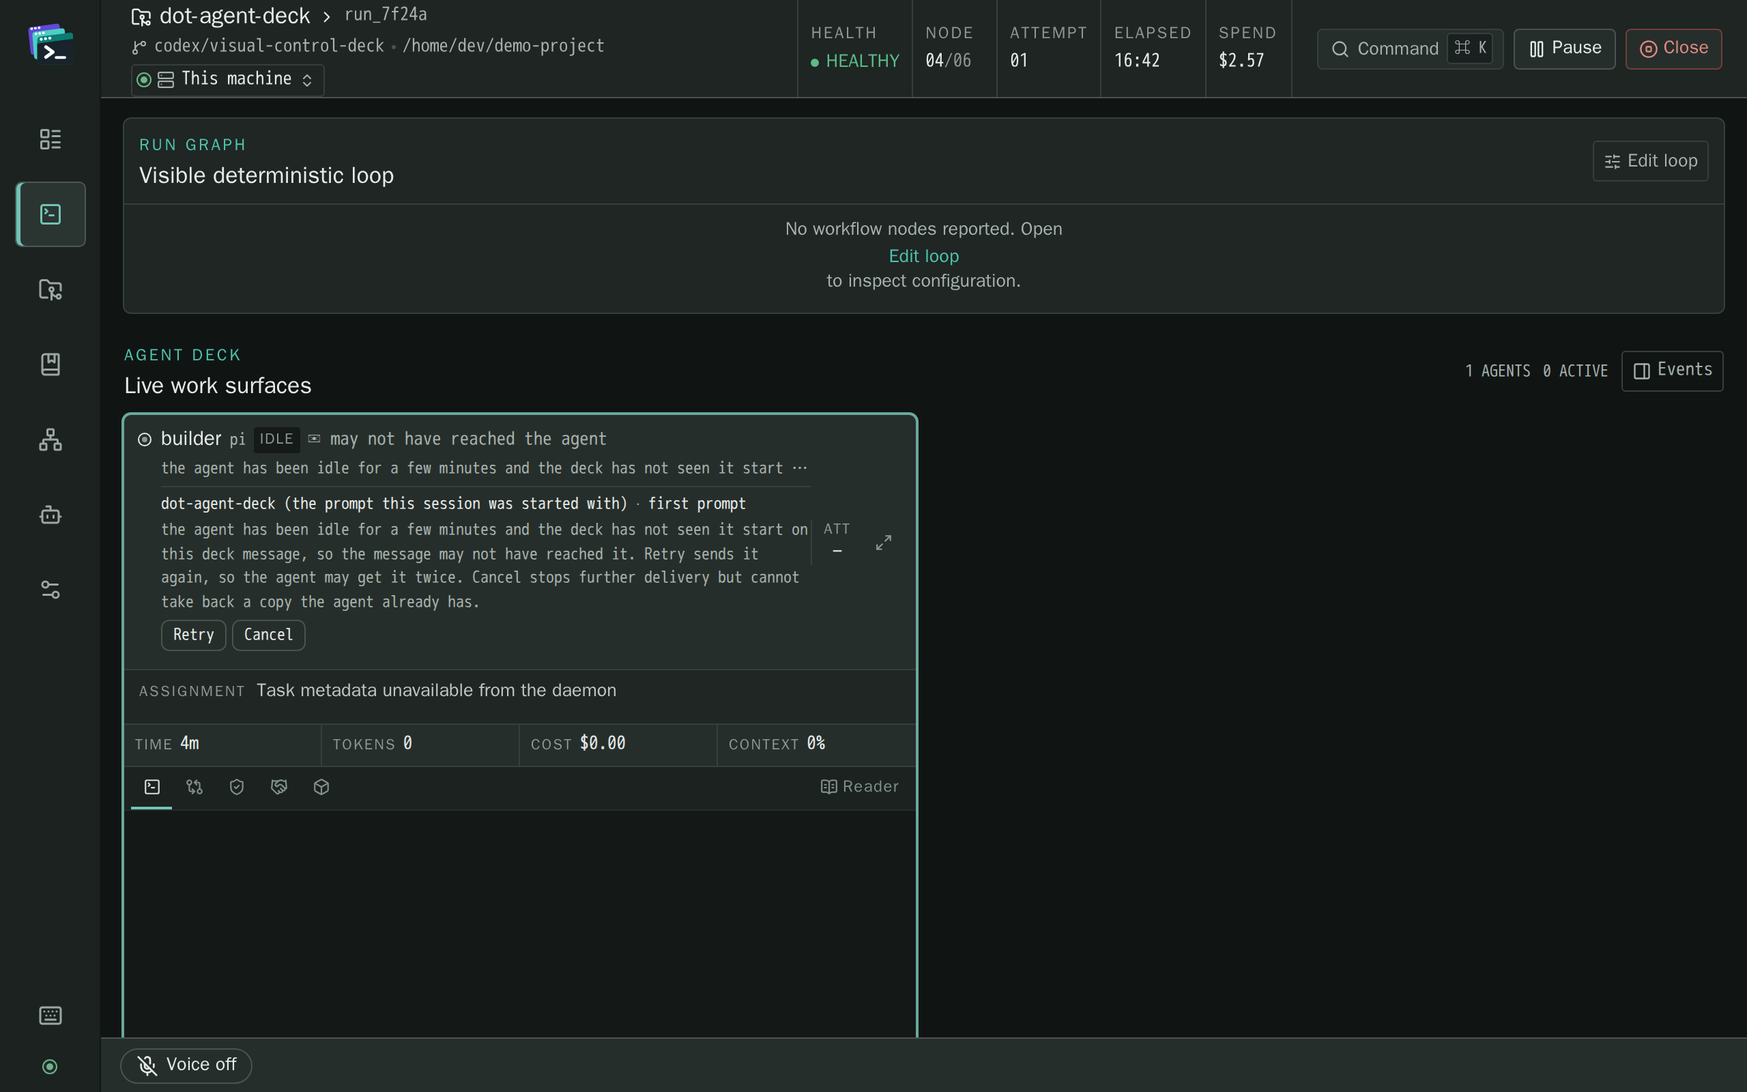
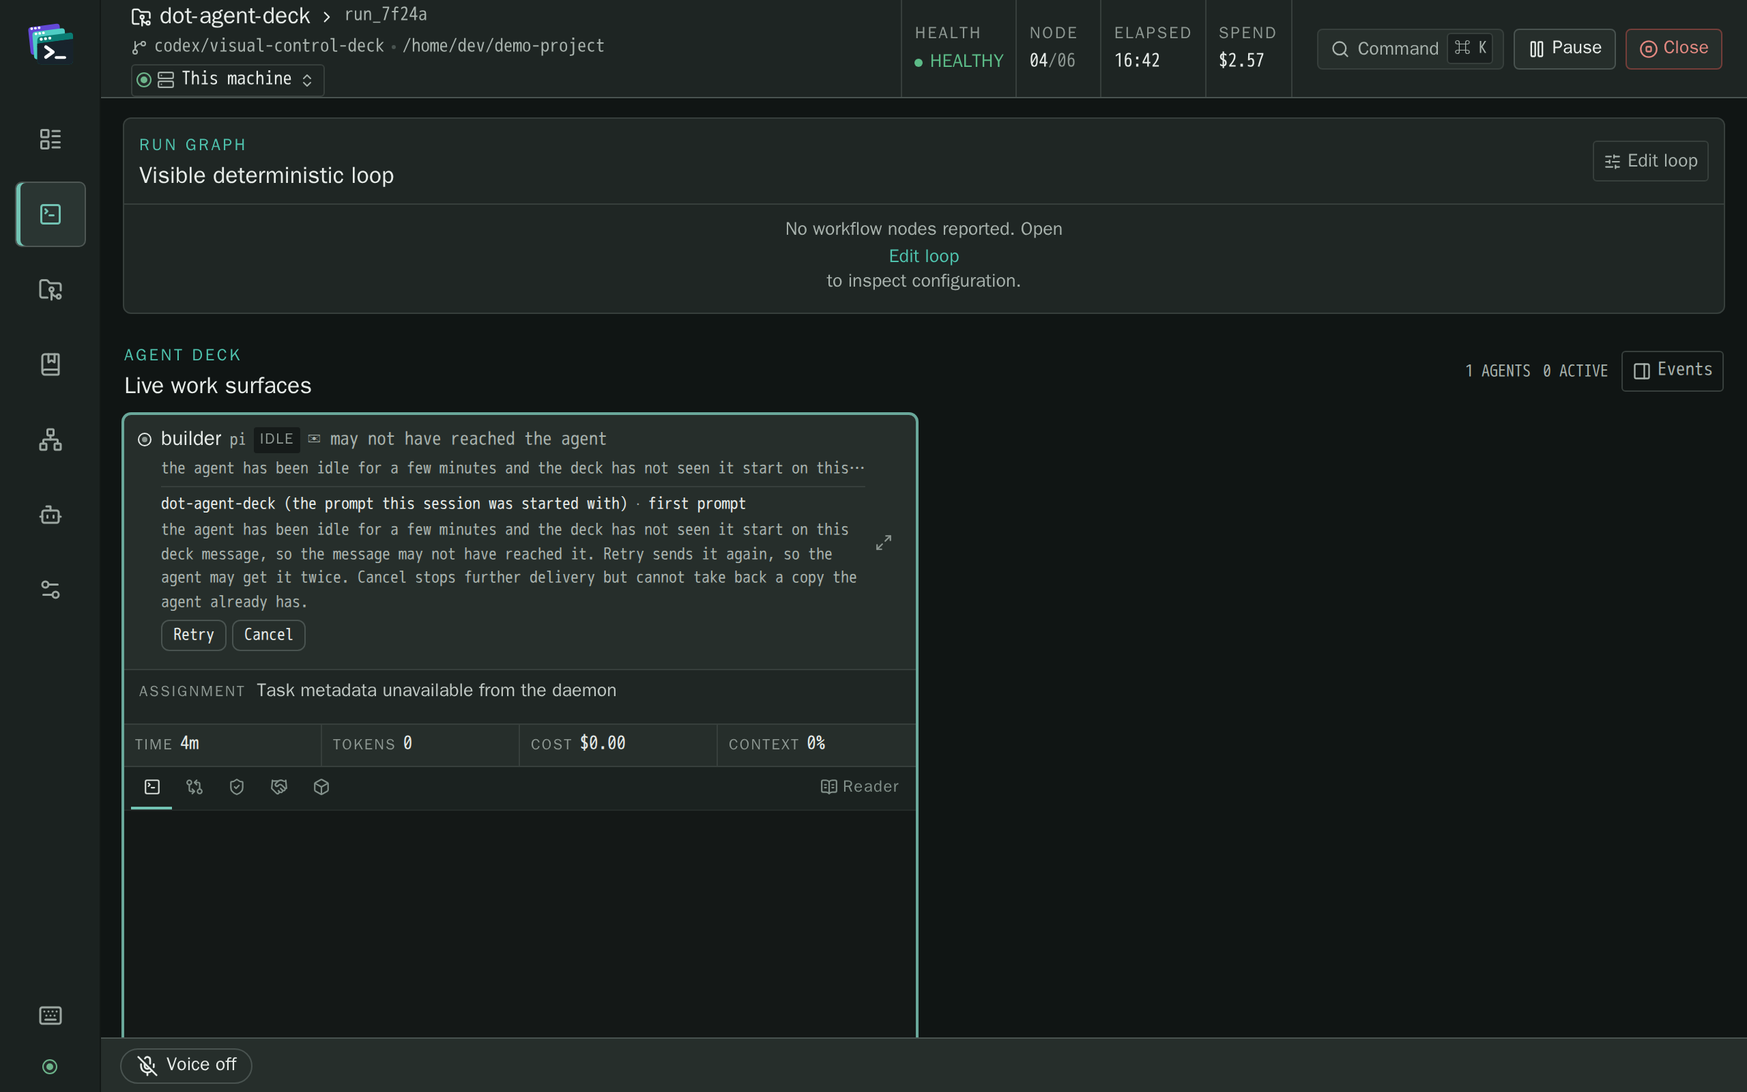
fix(desktop): remove the ATT, MODEL, USAGE and ATTEMPT readings (#2312)
All four appear only with experimental features on, and no daemon reports
any of them: against a live daemon they only ever printed an em dash. The
agent screen loses ATT, MODEL and USAGE; the Daemons screen's top bar loses
ATTEMPT. AgentSession.attempt and DeckSnapshot.currentAttempt go with them.
The fixture run graph keeps its own per-node attempt counts.

Changed region(s): [[0.0938, 0.4688, 0.5, 0.5625], [0.4688, 0.0, 0.625, 0.0625]]

diff --git a/desktop/src/AgentPaneOverlay.test.tsx b/desktop/src/AgentPaneOverlay.test.tsx
@@ -238,7 +238,6 @@ describe("agent pane overlay", () => {
     expect(within(overlay).getByRole("heading", { name: "Plan / architecture" })).toBeVisible();
     // Nothing is removed from the header, and identity matters MORE here: in
     // the grid, position tells a reader which tile they are looking at.
-    expect(within(overlay).getByText("ATT")).toBeVisible();
     expect(within(overlay).getByText("passed")).toBeVisible();
   });
 
@@ -507,7 +506,7 @@ describe("agent pane overlay", () => {
  * Issue #1400. With the `experimental` flag off — the shipped default — the
  * agent screen offers only what a live daemon supplies: the Terminal tab, and
  * TIME and TOOLS among the readings. The Diff, Checks, Delegations and
- * Artifacts tabs and the ATT, MODEL and USAGE fields come back with the flag.
+ * Artifacts tabs come back with the flag; the readings stay TIME and TOOLS.
  */
 describe("agent details behind the experimental flag", () => {
   const DETAILS_OFF = { ...fixtureDesktopFeatures("?experimental=1"), showAgentDetails: false };
@@ -529,9 +528,8 @@ describe("agent details behind the experimental flag", () => {
 
   /**
    * Scenario: with the flag off, open a live agent's pane from the dashboard.
-   * The tab strip holds Terminal alone, the header has no ATT, the readings
-   * are TIME and TOOLS with no MODEL or USAGE, and TIME counts the agent's
-   * uptime from the spawn instant the daemon reported.
+   * The tab strip holds Terminal alone, the readings are TIME and TOOLS, and
+   * TIME counts the agent's uptime from the spawn instant the daemon reported.
    */
   it("shows only the terminal tab and the readings the daemon supplies while the flag is off", () => {
     const view = { kind: "agent" as const, deckId: "deck-000000000000dec1", agentId: "7", from: "overview" as const };
@@ -539,7 +537,6 @@ describe("agent details behind the experimental flag", () => {
     const pane = screen.getByTestId("agent-pane-overlay");
 
     expect(within(pane).getAllByRole("tab").map((tab) => tab.getAttribute("aria-label"))).toEqual(["Terminal"]);
-    expect(within(pane).queryByText("ATT")).not.toBeInTheDocument();
     const metrics = within(pane).getByLabelText(/run metrics$/);
     expect(Array.from(metrics.children, (cell) => cell.querySelector("span")?.textContent)).toEqual(["TIME", "TOOLS"]);
     const time = within(metrics).getByText("TIME").parentElement!;
@@ -548,18 +545,19 @@ describe("agent details behind the experimental flag", () => {
   });
 
   /**
-   * Scenario: the same live agent with the flag on. All five tabs and the
-   * ATT, MODEL and USAGE fields are back, and TIME still reads the uptime.
+   * Scenario: the same live agent with the flag on. All five tabs are back,
+   * the readings are still only TIME and TOOLS (no ATT, MODEL or USAGE, which
+   * a daemon reports nothing for), and TIME still reads the uptime.
    */
-  it("brings back the four tabs and the ATT, MODEL and USAGE fields with the flag on", () => {
+  it("brings back the four tabs with the flag on, and no reading the daemon cannot fill", () => {
     const view = { kind: "agent" as const, deckId: "deck-000000000000dec1", agentId: "7", from: "overview" as const };
     render(<DeckShell runtime={{ ...liveRuntime(Date.now() - 2 * 3_600_000), desktopFeatures: fixtureDesktopFeatures("?experimental=1") }} initialView={view} />);
     const pane = screen.getByTestId("agent-pane-overlay");
 
     expect(within(pane).getAllByRole("tab").map((tab) => tab.getAttribute("aria-label"))).toEqual(["Terminal", "Diff", "Checks", "Delegations", "Artifacts"]);
-    expect(within(pane).getByText("ATT")).toBeVisible();
+    expect(within(pane).queryByText("ATT")).not.toBeInTheDocument();
     const metrics = within(pane).getByLabelText(/run metrics$/);
-    expect(Array.from(metrics.children, (cell) => cell.querySelector("span")?.textContent)).toEqual(["TIME", "TOOLS", "MODEL", "USAGE"]);
+    expect(Array.from(metrics.children, (cell) => cell.querySelector("span")?.textContent)).toEqual(["TIME", "TOOLS"]);
     expect(within(metrics).getByText("TIME").parentElement).toHaveTextContent("2h");
   });
 

diff --git a/desktop/src/App.test.tsx b/desktop/src/App.test.tsx
@@ -2653,10 +2653,10 @@ describe("ControlDeck", () => {
 
   /**
    * Scenario: render the daemon against a snapshot mapped from a real daemon DTO
-   * — the live path, not the fixture. Every place the daemon used to assert an
-   * attempt count now shows the em dash it shows for anything else the daemon
-   * does not report, and the branch chip is gone rather than printing the
-   * literal "Unavailable" where a branch name belongs (PRD #745 M8).
+   * — the live path, not the fixture. No attempt count is shown anywhere: the
+   * topbar has no ATTEMPT reading, the tile no ATT, and the run-graph node no
+   * "att". The branch chip is gone rather than printing the literal
+   * "Unavailable" where a branch name belongs (PRD #745 M8).
    */
   it("asserts no attempt count and no branch in live mode", async () => {
     const { mapDesktopSnapshot } = await import("./lib/bridge");
@@ -2670,10 +2670,9 @@ describe("ControlDeck", () => {
 
     // The topbar instrument, the run-graph node and the tile — the three places
     // the fabricated `1` used to surface.
-    expect(screen.getByText("ATTEMPT").parentElement).toHaveTextContent("—");
+    expect(screen.queryByText("ATTEMPT")).not.toBeInTheDocument();
     expect(screen.getByTestId("workflow-node-agent-7")).not.toHaveTextContent("att");
-    expect(container.querySelector(".agent-attempt strong")?.textContent).toBe("—");
-    expect(container.querySelector(".agent-attempt")).toHaveAttribute("title", "No attempt count is reported by the daemon");
+    expect(screen.queryByText("ATT")).not.toBeInTheDocument();
 
     // No branch chip at all, and nothing standing in for one.
     expect(container.querySelector(".branch-line svg")).toBeNull();
@@ -3039,14 +3038,12 @@ describe("ControlDeck", () => {
     expect(await screen.findByText(same)).toBeInTheDocument();
   });
   /**
-   * The fixture keeps its own attempt counts: they are legitimate fixture data,
-   * and M8's claim is about what LIVE mode presents as fact.
+   * The fixture's run graph keeps its own attempt counts: they are legitimate
+   * fixture data, and M8's claim is about what LIVE mode presents as fact.
    */
-  it("still shows the fixture's own attempt counts", () => {
+  it("still shows the fixture's own attempt counts on the run graph", () => {
     const { container } = render(<ControlDeck runtime={runtime()} />);
 
-    expect(screen.getByText("ATTEMPT").parentElement).toHaveTextContent("01");
-    expect(container.querySelector(".agent-attempt strong")?.textContent).toBe("01");
     expect(screen.getByTestId("workflow-node-build")).toHaveTextContent("att 2");
     expect(container.querySelector(".branch-line")).toHaveTextContent("codex/visual-control-deck");
   });

diff --git a/desktop/src/components/AgentTile.tsx b/desktop/src/components/AgentTile.tsx
@@ -182,8 +182,8 @@ export interface AgentTileProps {
   presentation: AgentPanePresentation;
   /**
    * Issue #1400 — `DesktopFeatures.showAgentDetails`: whether to offer the
-   * Diff, Checks, Delegations and Artifacts tabs and the ATT, MODEL and USAGE
-   * fields, which a live daemon supplies nothing for. Required, so each render
+   * Diff, Checks, Delegations and Artifacts tabs, which a live daemon supplies
+   * nothing for. Required, so each render
    * site says which rather than inheriting a default. PRD #1399 decides what
    * becomes of each.
    */
@@ -614,18 +614,7 @@ export function AgentTile({
             )}
           </div>
         </div>
-        {/*
-          PRD #745 M8: an em dash — this deck's established "not known" — when
-          no attempt was reported. Live mode used to hardcode `1`, so every tile
-          printed `ATT 01` as if the daemon tracked retries; it tracks none.
-        */}
         <div className="agent-header-actions">
-          {showDetails && (
-            <div className="agent-attempt" title={agent.attempt === undefined ? "No attempt count is reported by the daemon" : "Current attempt"}>
-              <span>ATT</span>
-              <strong>{agent.attempt === undefined ? "—" : agent.attempt.toString().padStart(2, "0")}</strong>
-            </div>
-          )}
           {/*
             PRD #1105 M5's deck entry point, and M2's way back out. Both are
             native `<button>`s in the header rather than a click handler on the
@@ -679,12 +668,6 @@ export function AgentTile({
         ) : (
           <>
             <div><span>TOOLS</span><strong>{agent.toolCount}</strong></div>
-            {showDetails && (
-              <>
-                <div><span>MODEL</span><strong>—</strong></div>
-                <div><span>USAGE</span><strong>—</strong></div>
-              </>
-            )}
           </>
         )}
       </div>

diff --git a/desktop/src/types.ts b/desktop/src/types.ts
@@ -659,8 +659,7 @@ export interface DesktopFeatures {
   showAgentProfiles: boolean;
   /**
    * Issue #1400 — the agent screen's Diff, Checks, Delegations and Artifacts
-   * tabs and its ATT, MODEL and USAGE fields, which a live daemon supplies
-   * nothing for today. Off leaves Terminal as the only tab.
+   * tabs, which a live daemon supplies nothing for today. Off leaves Terminal as the only tab.
    */
   showAgentDetails: boolean;
 }
@@ -704,8 +703,8 @@ export interface WorkflowStage {
   agentId?: string;
   status: StageStatus;
   /**
-   * FIXTURE-ONLY, and optional for the same reason as `AgentSession.attempt`:
-   * live mode derived it from that hardcoded `1`, so every node claimed an
+   * FIXTURE-ONLY: no retry counter exists anywhere in the daemon, and live
+   * mode once derived this from a hardcoded `1`, so every node claimed an
    * attempt count no daemon tracks (PRD #745 M8).
    */
   attempt?: number;
@@ -942,13 +941,6 @@ export interface AgentSession {
    * {@link UNREPORTED} at its own render seam.
    */
   cwd?: string;
-  /**
-   * FIXTURE-ONLY — no retry counter exists anywhere in the daemon, so live mode
-   * reports NOTHING here rather than the `1` it used to hardcode: every tile
-   * read `ATT 01` as if it were a fact (PRD #745 M8). Optional, so a surface
-   * that renders it has to decide what absence looks like.
-   */
-  attempt?: number;
   /** FIXTURE-ONLY — `started_at` is invented on hydration, so a duration lies across a daemon restart. */
   duration: string;
   /** FIXTURE-ONLY — no token accounting in daemon state. */
@@ -1226,8 +1218,6 @@ export interface DeckSnapshot {
   spend: number;
   currentNode: number;
   totalNodes: number;
-  /** FIXTURE-ONLY — see `AgentSession.attempt`. Absent in live mode. */
-  currentAttempt?: number;
   paused: boolean;
   /**
    * The daemon's registered-schedule revision (issue #887) — carried solely so

diff --git a/desktop/src/data/fixture.ts b/desktop/src/data/fixture.ts
@@ -255,7 +255,6 @@ const agents: AgentSession[] = ([
     status: "passed",
     task: "Define the smallest observable coding loop and its acceptance contract.",
     cwd: "/dev/active/dot-agent-deck-gui",
-    attempt: 1,
     duration: "04:18",
     tokens: 18240,
     cost: 0.82,
@@ -282,7 +281,6 @@ const agents: AgentSession[] = ([
     status: "passed",
     task: "Build the visual control room and bridge it to the existing daemon.",
     cwd: "/dev/active/dot-agent-deck-gui",
-    attempt: 2,
     duration: "09:44",
     tokens: 28612,
     cost: 1.34,
@@ -314,7 +312,6 @@ const agents: AgentSession[] = ([
     status: "running",
     task: "Audit terminal lifecycle, unsafe actions, and event integrity.",
     cwd: "/dev/active/dot-agent-deck-gui",
-    attempt: 1,
     duration: "02:26",
     tokens: 9568,
     cost: 0.41,
@@ -342,7 +339,6 @@ const agents: AgentSession[] = ([
     status: "queued",
     task: "Exercise fixture, live disconnect, terminal input, and approval paths.",
     cwd: "/dev/active/dot-agent-deck-gui",
-    attempt: 1,
     duration: "00:00",
     tokens: 0,
     cost: 0,
@@ -1345,7 +1341,6 @@ export function createFixtureSnapshot(state: FixtureState = "connected"): DeckSn
     spend: 2.57,
     currentNode: 4,
     totalNodes: 6,
-    currentAttempt: 1,
     paused: false,
     stages: state === "empty" || docs ? [] : stages.map((stage) => ({ ...stage })),
     // Issue #2001: the docs scenarios picture a LIVE deck, whose tile prints no

diff --git a/desktop/src/lib/bridge.test.ts b/desktop/src/lib/bridge.test.ts
@@ -1678,23 +1678,20 @@ describe("TauriDeckBridge", () => {
 
   /**
    * PRD #745 M8. No daemon tracks a retry count or a per-agent git branch, so
-   * live mode now reports neither instead of the `1` every tile printed as
-   * `ATT 01` and the literal "Unavailable" the topbar printed as a branch.
+   * live mode reports neither: no attempt on a run-graph node, and no branch
+   * instead of the literal "Unavailable" the topbar once printed as one.
    */
   it("fabricates no attempt count and no branch in live mode", async () => {
     const { mapDesktopSnapshot } = await import("./bridge");
 
     const mapped = mapDesktopSnapshot(structuredClone(snapshot));
 
-    expect(mapped.agents[0]?.attempt).toBeUndefined();
     expect(mapped.stages[0]?.attempt).toBeUndefined();
-    expect(mapped.currentAttempt).toBeUndefined();
     expect(mapped.branch).toBeUndefined();
     // And a previous snapshot cannot smuggle one back in: the field is not
     // carried forward, so a fixture-shaped value can never become live data.
-    const carried = mapDesktopSnapshot(structuredClone(snapshot), { ...mapped, branch: "main", currentAttempt: 3 });
+    const carried = mapDesktopSnapshot(structuredClone(snapshot), { ...mapped, branch: "main" });
     expect(carried.branch).toBeUndefined();
-    expect(carried.currentAttempt).toBeUndefined();
   });
 });
 

diff --git a/desktop/src/lib/bridge.ts b/desktop/src/lib/bridge.ts
@@ -3004,8 +3004,8 @@ export function mapDesktopSnapshot(dto: DesktopSnapshotDto, previous?: DeckSnaps
     // not waiting its turn, and a person has to act on it.
     // Issue #1757: a Waiting agent's work is still under way, so its node is active.
     status: isWorkUnderWay(agent.status) ? "active" : agent.status === "passed" ? "passed" : agent.status === "failed" ? "failed" : agent.status === "blocked" ? "blocked" : "queued",
-    // No attempt: it was read straight off the hardcoded per-agent one, so
-    // every live node claimed a retry count no daemon tracks (PRD #745 M8).
+    // No attempt: no daemon tracks a retry count, and a hardcoded one made
+    // every live node claim one (PRD #745 M8).
     enabled: true,
   }));
 
@@ -3060,7 +3060,6 @@ export function mapDesktopSnapshot(dto: DesktopSnapshotDto, previous?: DeckSnaps
     spend: previous?.spend ?? 0,
     currentNode: Math.max(1, agents.findIndex((agent) => isWorkUnderWay(agent.status)) + 1),
     totalNodes: agents.length,
-    // No currentAttempt, for the same reason as the per-agent one.
     paused: false,
     stages,
     agents: agents.map((agent) => {

diff --git a/desktop/src/App.tsx b/desktop/src/App.tsx
@@ -2634,8 +2634,6 @@ export function DeckSurface({ runtime, settings, orchestrationPlatformIssue = de
           {!allDecks && <div className="run-instruments deck-instruments">
             <Instrument label="HEALTH" testId="run-health"><span className={`health-value health-${snapshot.health}`}><i />{snapshot.health}</span></Instrument>
             <Instrument label="NODE"><strong>{String(snapshot.currentNode).padStart(2, "0")}<em>/{String(snapshot.totalNodes).padStart(2, "0")}</em></strong></Instrument>
-            {/* Em dash, this deck's established "not known": no daemon tracks an attempt count (PRD #745 M8). */}
-            <Instrument label="ATTEMPT"><strong>{snapshot.currentAttempt === undefined ? "—" : String(snapshot.currentAttempt).padStart(2, "0")}</strong></Instrument>
             <Instrument label="ELAPSED"><strong>{snapshot.elapsed}</strong></Instrument>
             <Instrument label="SPEND"><strong>{mode === "fixture" ? `$${snapshot.spend.toFixed(2)}` : "—"}</strong></Instrument>
           </div>}

diff --git a/desktop/src/styles.css b/desktop/src/styles.css
@@ -712,9 +712,6 @@ code, kbd, .instrument strong, .agent-instruments strong, time { font-family: "J
 */
 .status-label.is-held { color: var(--faint); background: var(--paper-sunken-strong); }
 .agent-state-mark.is-held { color: var(--faint); background: transparent; }
-.agent-attempt { width: 38px; height: 33px; display: grid; grid-template-columns: 1fr; place-items: center; border-left: 1px solid var(--line); }
-.agent-attempt span { color: var(--faint); font-size: var(--text-xs); letter-spacing: .08em; }
-.agent-attempt strong { font-family: "JetBrains Mono", monospace; font-size: var(--text-base); }
 /* Issue #2000: each label sits on its value's first line rather than on a row
    of its own. A prompt that wraps hangs under its own first word, as the TUI
    card's `Prmt:` does; the min-height is the two-line clamp, so a one-line

diff --git a/desktop/src/hooks/useDeckRuntime.ts b/desktop/src/hooks/useDeckRuntime.ts
@@ -45,7 +45,6 @@ function seedSnapshot(mode: RuntimeMode): DeckSnapshot {
       spend: 0,
       currentNode: 0,
       totalNodes: 0,
-      currentAttempt: undefined,
       stages: [],
       agents: [],
       evidence: [],

diff --git a/docs/develop/experimental-flag.md b/docs/develop/experimental-flag.md
@@ -97,7 +97,7 @@ This lets work-in-progress code merge to `main` without exposing unfinished UI d
 | `show_desktop_prompts()` | The desktop app's Prompts library: its rail entry and command-palette entry | #1198 | `graduate-desktop-prompts` |
 | `show_desktop_orchestrations()` | The desktop app's Orchestrations editor: its rail entry and command-palette entry | #1198 | `graduate-desktop-workflows` |
 | `show_desktop_agent_profiles()` | The desktop app's Agent Profiles form: its rail entry and command-palette entry | #1198 | `graduate-desktop-agent-profiles` |
-| `show_desktop_agent_details()` | The desktop agent screen's (tile and pane) **Diff**, **Checks**, **Delegations** and **Artifacts** tabs and its **ATT**, **MODEL** and **USAGE** fields, which a live daemon supplies nothing for. With the flag off Terminal is the only tab, and a stored tab naming one of the four falls back to it (`shownPanelTab`) | #1400 | PRD #1399 decides per tab and field |
+| `show_desktop_agent_details()` | The desktop agent screen's (tile and pane) **Diff**, **Checks**, **Delegations** and **Artifacts** tabs, which a live daemon supplies nothing for. Its **ATT**, **MODEL** and **USAGE** fields, which only ever read an em dash, were removed in #2312. With the flag off Terminal is the only tab, and a stored tab naming one of the four falls back to it (`shownPanelTab`) | #1400 | PRD #1399 decides per tab and field |
 
 > **The six `show_desktop_*` wrappers reach the webview as one DTO field each.** The desktop crate's `desktop_features` command returns them as `DesktopFeatures` (`showDeck`, `showProjects`, `showPrompts`, `showOrchestrations`, `showAgentProfiles`, `showAgentDetails`); the webview reads it once into `DeckRuntimeState.desktopFeatures`, and every TypeScript gate reads `desktopFeaturesOf(runtime).show<Surface>`, so `grep -rn 'show_desktop_deck\|showDeck' desktop/` finds every site of one surface. A missing or refused answer reads as all hidden. Two things are deliberately not gated: the panels' in-deck doors (the run graph's **Edit loop**, the empty deck's **Configure agents**, and the Projects ↔ Orchestrations cross-links inside those panels), because each sits inside a surface that is itself hidden and all six fields follow the one flag; and the voice rows' own vocabulary, which stays in `commands.toml` — only whether `open_deck` is offered changes.
 

diff --git a/docs/develop/desktop-gui.md b/docs/develop/desktop-gui.md
@@ -488,7 +488,7 @@ That decision is enforced by the compiler rather than by review. The screen rend
 
 Sanitisation is a property of the screen rather than of individual cells: every daemon-supplied string passes through `desktop/src/lib/displayText.ts` before React sees it — rendered text, `title` attributes, and the copies behind `data-*`, DOM ids, IDREFs and React keys — while grouping, sorting and the `(daemonId, agentId)` identity keep the raw values. An agent whose reported display name consists entirely of invisible characters renders as `unnamed agent <id>` rather than as a blank cell, on the one screen whose whole job is telling agents apart.
 
-Two fabricated values on the **deck** were withdrawn by the same principle, since a fabricated value is worse than an absent one — it looks like data. Every tile printed `ATT 01` and the top bar printed `ATTEMPT 01`, both read from a hardcoded `1`, and no daemon tracks a retry count anywhere; the branch line printed a literal `Unavailable` where a branch name belongs, and no daemon tracks a per-agent branch either. In live mode the attempt readouts now show the deck's established em dash and the branch chip is simply absent until something reports a branch. The deterministic fixture keeps its own attempt counts and branch, which are legitimately fixture data.
+Two fabricated values on the **deck** were withdrawn by the same principle, since a fabricated value is worse than an absent one — it looks like data. Every tile printed `ATT 01` and the top bar printed `ATTEMPT 01`, both read from a hardcoded `1`, and no daemon tracks a retry count anywhere; the branch line printed a literal `Unavailable` where a branch name belongs, and no daemon tracks a per-agent branch either. In live mode the attempt readouts showed the deck's established em dash until issue #2312 removed them, along with the agent screen's **MODEL** and **USAGE** fields, which also only ever read an em dash; the branch chip is simply absent until something reports a branch. The deterministic fixture keeps its run graph's attempt counts and its branch, which are legitimately fixture data.
 
 ### Columns, and who chooses them
 
